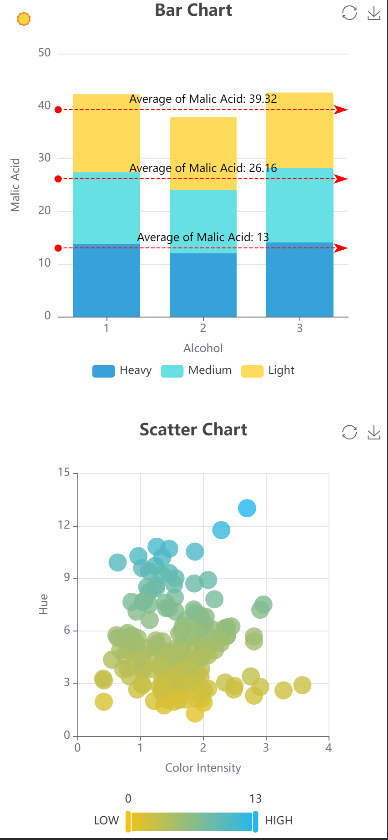
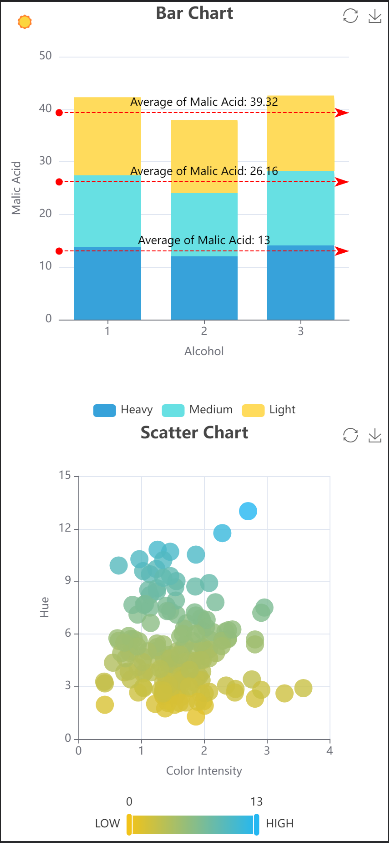
fixed bar

diff --git a/src/app/Components/BarChart.tsx b/src/app/Components/BarChart.tsx
@@ -19,7 +19,8 @@ export function BarChart({ data, theme }: BarChartProps): JSX.Element {
       // },
     },
     legend: {
-      bottom: 40,
+      top: "bottom",
+      bottom: "center",
     },
     toolbox: {
       show: true,
